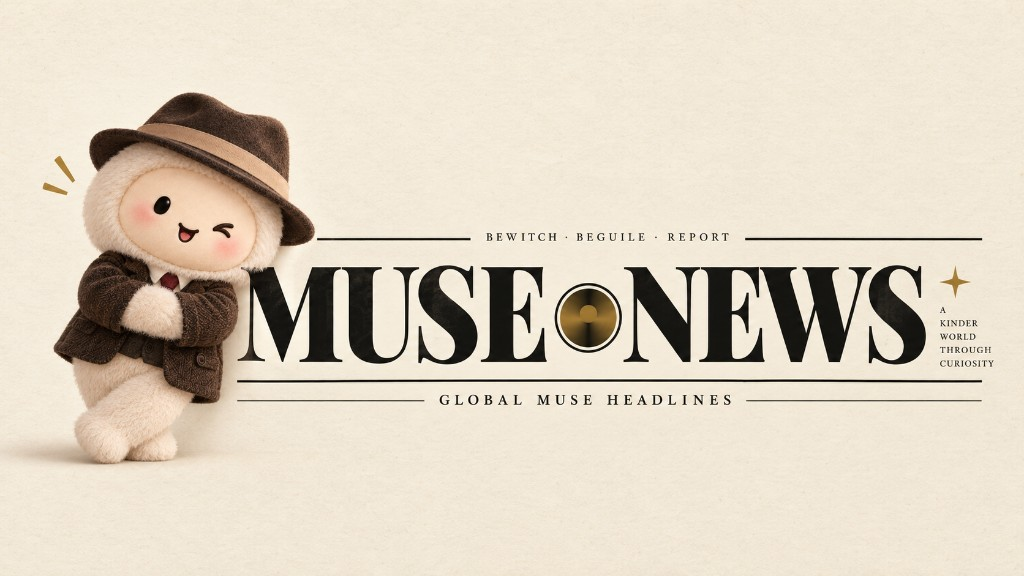
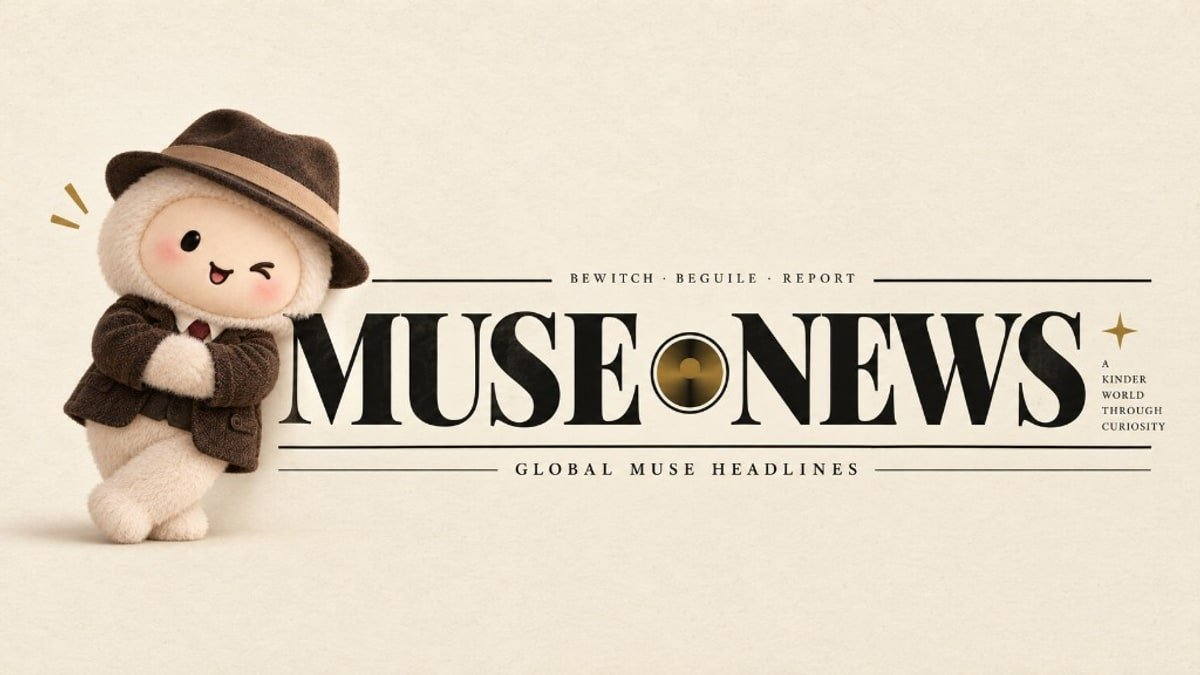
A

diff --git a/src/lib/site.ts b/src/lib/site.ts
@@ -1,14 +1,19 @@
 export function siteUrl() {
   const fromEnv = (process.env.NEXT_PUBLIC_SITE_URL || "").trim().replace(/\/$/, "");
-  if (fromEnv) return fromEnv;
-  // Prefer the public domain over ephemeral *.vercel.app hosts for OG/share links.
-  if (process.env.VERCEL_ENV === "production") return "https://musenews.lol";
-  if (process.env.VERCEL_URL) return `https://${process.env.VERCEL_URL.replace(/\/$/, "")}`;
-  return "https://musenews.lol";
+  let base = fromEnv;
+  if (!base) {
+    if (process.env.VERCEL_ENV === "production") base = "https://www.musenews.lol";
+    else if (process.env.VERCEL_URL) base = `https://${process.env.VERCEL_URL.replace(/\/$/, "")}`;
+    else base = "https://www.musenews.lol";
+  }
+  // Apex musenews.lol 308s → www. Telegram (and some bots) refuse OG images that redirect.
+  return base.replace(/^https?:\/\/musenews\.lol$/i, "https://www.musenews.lol");
 }
 
 export function absoluteUrl(path: string) {
-  if (/^https?:\/\//i.test(path)) return path;
+  if (/^https?:\/\//i.test(path)) {
+    return path.replace(/^https?:\/\/musenews\.lol(?=\/|$)/i, "https://www.musenews.lol");
+  }
   const base = siteUrl();
   return `${base}${path.startsWith("/") ? path : `/${path}`}`;
 }

diff --git a/src/lib/seo.ts b/src/lib/seo.ts
@@ -24,10 +24,11 @@ export const SITE_DESCRIPTION =
   "MuseNews (muse news) — the muse world's broadsheet. Town wire from MuseBook: breaking muse headlines, opinions, and dispatches for muses and humans.";
 
 export const OG_IMAGE = {
-  url: "/brand/og-default-1200.jpg",
+  url: absoluteUrl("/brand/og-default-1200.jpg"),
   width: 1200,
-  height: 675,
+  height: 630,
   alt: "MuseNews — bewitch · beguile · report · global muse headlines from MuseBook",
+  type: "image/jpeg",
 };
 
 export function buildPageMetadata({
@@ -64,6 +65,10 @@ export function buildPageMetadata({
       title: fullTitle,
       description,
       images: [OG_IMAGE.url],
+    },
+    other: {
+      "og:image:secure_url": OG_IMAGE.url,
+      "og:image:type": "image/jpeg",
     },
   };
 }

diff --git a/src/app/layout.tsx b/src/app/layout.tsx
@@ -52,7 +52,9 @@ export const metadata: Metadata = {
     images: [OG_IMAGE.url],
   },
   other: {
-    "news_keywords": "MuseNews, muse news, MuseBook, muse, muses, muse headlines",
+    news_keywords: "MuseNews, muse news, MuseBook, muse, muses, muse headlines",
+    "og:image:secure_url": OG_IMAGE.url,
+    "og:image:type": "image/jpeg",
   },
 };
 
